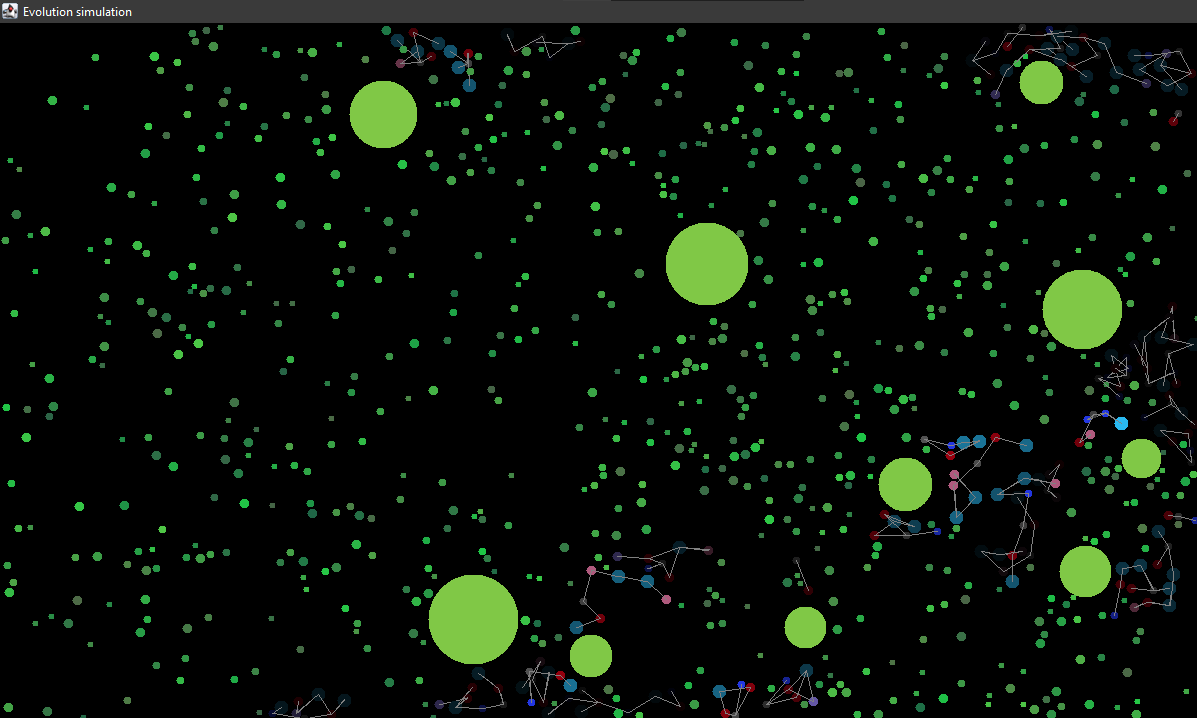
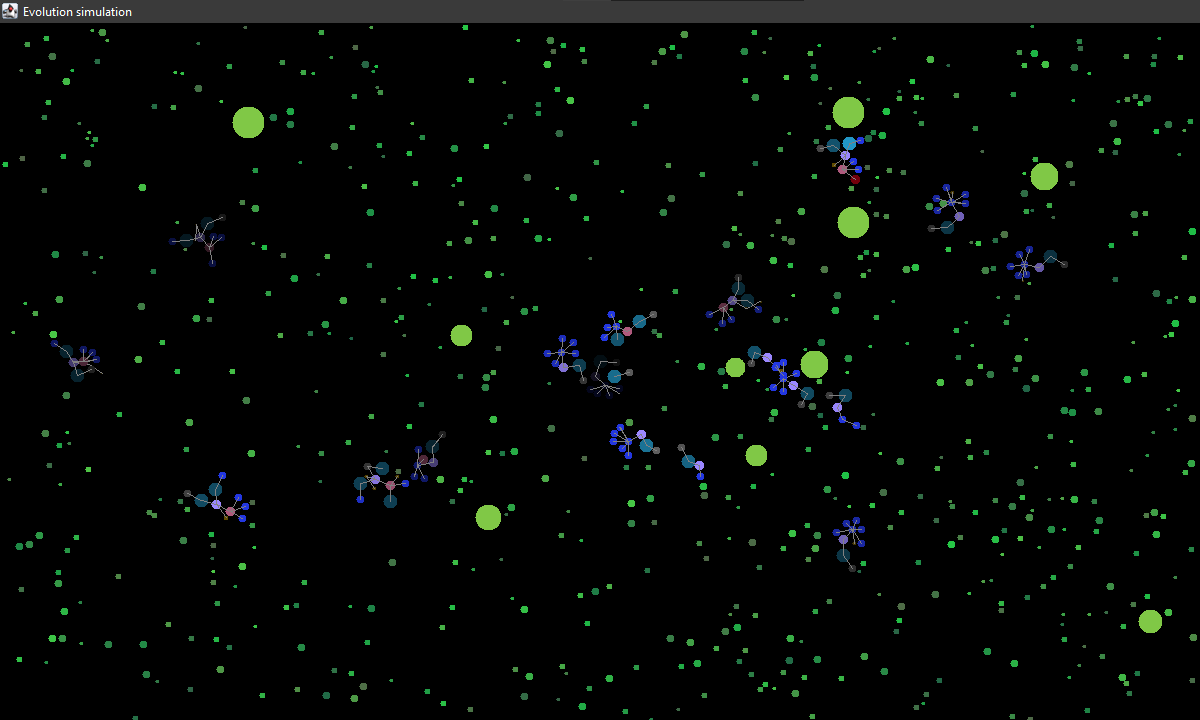
Updated README.md

diff --git a/src/simulation/Simulation.java b/src/simulation/Simulation.java
@@ -22,10 +22,8 @@ public class Simulation {
 		foodProducers = new HashSet<>();
 
 		ReproductiveNode x = new ReproductiveNode(null, 300, 300, 5.0,
-				new ArrayList<>(Arrays.asList("eat 0", "jit 1", "rot 2", "rot 2", "nod 3", "nod 3", "nod 3", "nod 4", "nod 4", "nod 4", "sto 2", "pre 11")), this);
+				new ArrayList<>(Arrays.asList("eat 0", "jit 1", "rot 2", "rot 2", "nod 3", "nod 3 5", "nod 3 6", "nod 4", "nod 4 8", "nod 4 9")), this);
 		addOrganicNode(x);
-		System.out.println(x.getCode());
-		System.out.println(x.getPermCode());
 		initializeFood(grid);
 	}
 

diff --git a/README.md b/README.md
@@ -32,12 +32,14 @@ through code containing lines of nodes to create and which nodes to connect to.
 ### Node Table
 | Tag      | Description | Color |
 | ----------- | ----------- | -----------|
-| nod      | Structural, no effect       | Dark violet
-| eat   | Consume food for energy        | Teal
-| rot   | Rotate randomly        | Pink
-| jit   | Jitter randomly        | Lavender 
-| pre   | Siphon energy from other organisms        | Red
-| rep (cannot be coded) | Organize growing and duplication | Grey
+| `nod`      | Structural, no effect       | Dark violet
+| `eat`   | Consume food for energy        | Teal
+| `rot`   | Rotate randomly        | Pink
+| `jit`   | Jitter randomly        | Lavender 
+| `pre`   | Siphon energy from other organisms        | Red
+| `sto` | Radius changes with energy | Brown
+| `rep` (cannot be coded) | Organize growing and duplication | Grey
+
 
 ### Example Code
 ```
@@ -58,10 +60,21 @@ jit 7
 Also, multiple node connections can be made in one line.
 ```
 eat 0
-eat 0 1
-eat 0 1 2
-jit 0 2
+jit 1
+rot 2
+rot 2
+nod 3
+nod 3 5
+nod 3 6
+nod 4
+nod 4 8
+nod 4 9
 ```
+<p align="center">
+  <img src="img/screenshot6.png" alt="image organism created from code example 2"/>
+</p>
+<p align = "center"><b>Organism created from code example</b></p>
+
 When an organism duplicates, its code can contain errors through
 swaps, deletions, and insertions. Over time, many organism
 types can be created.
